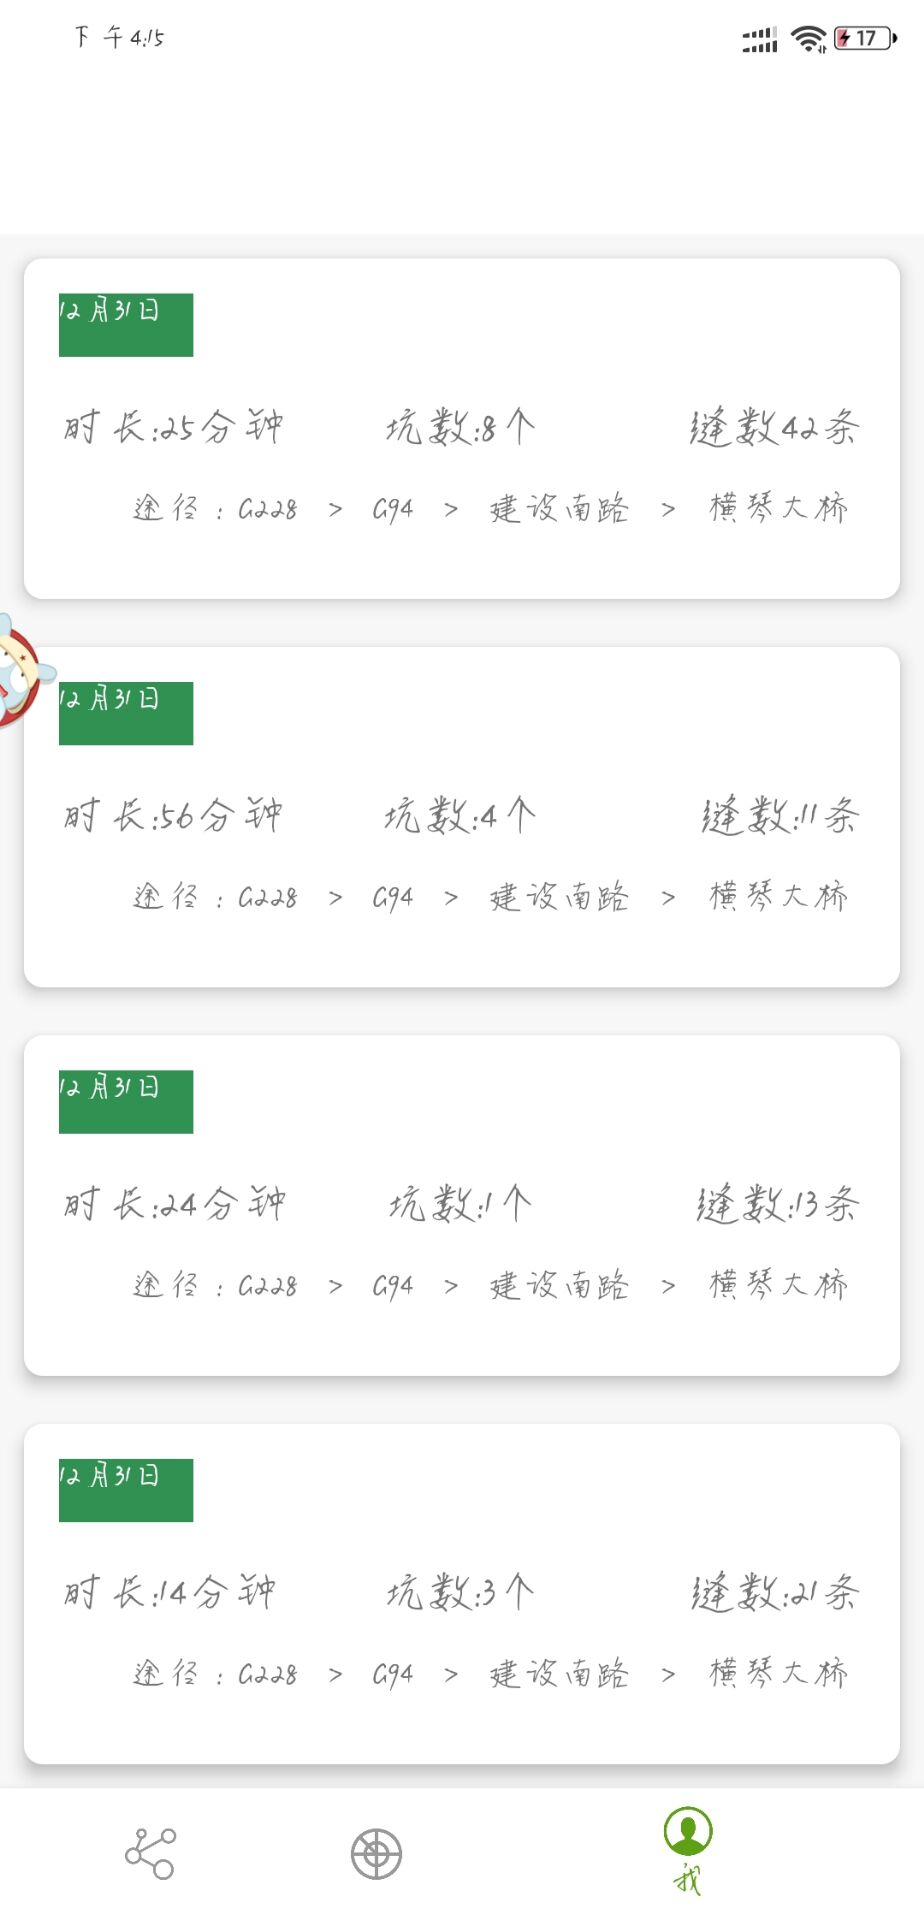
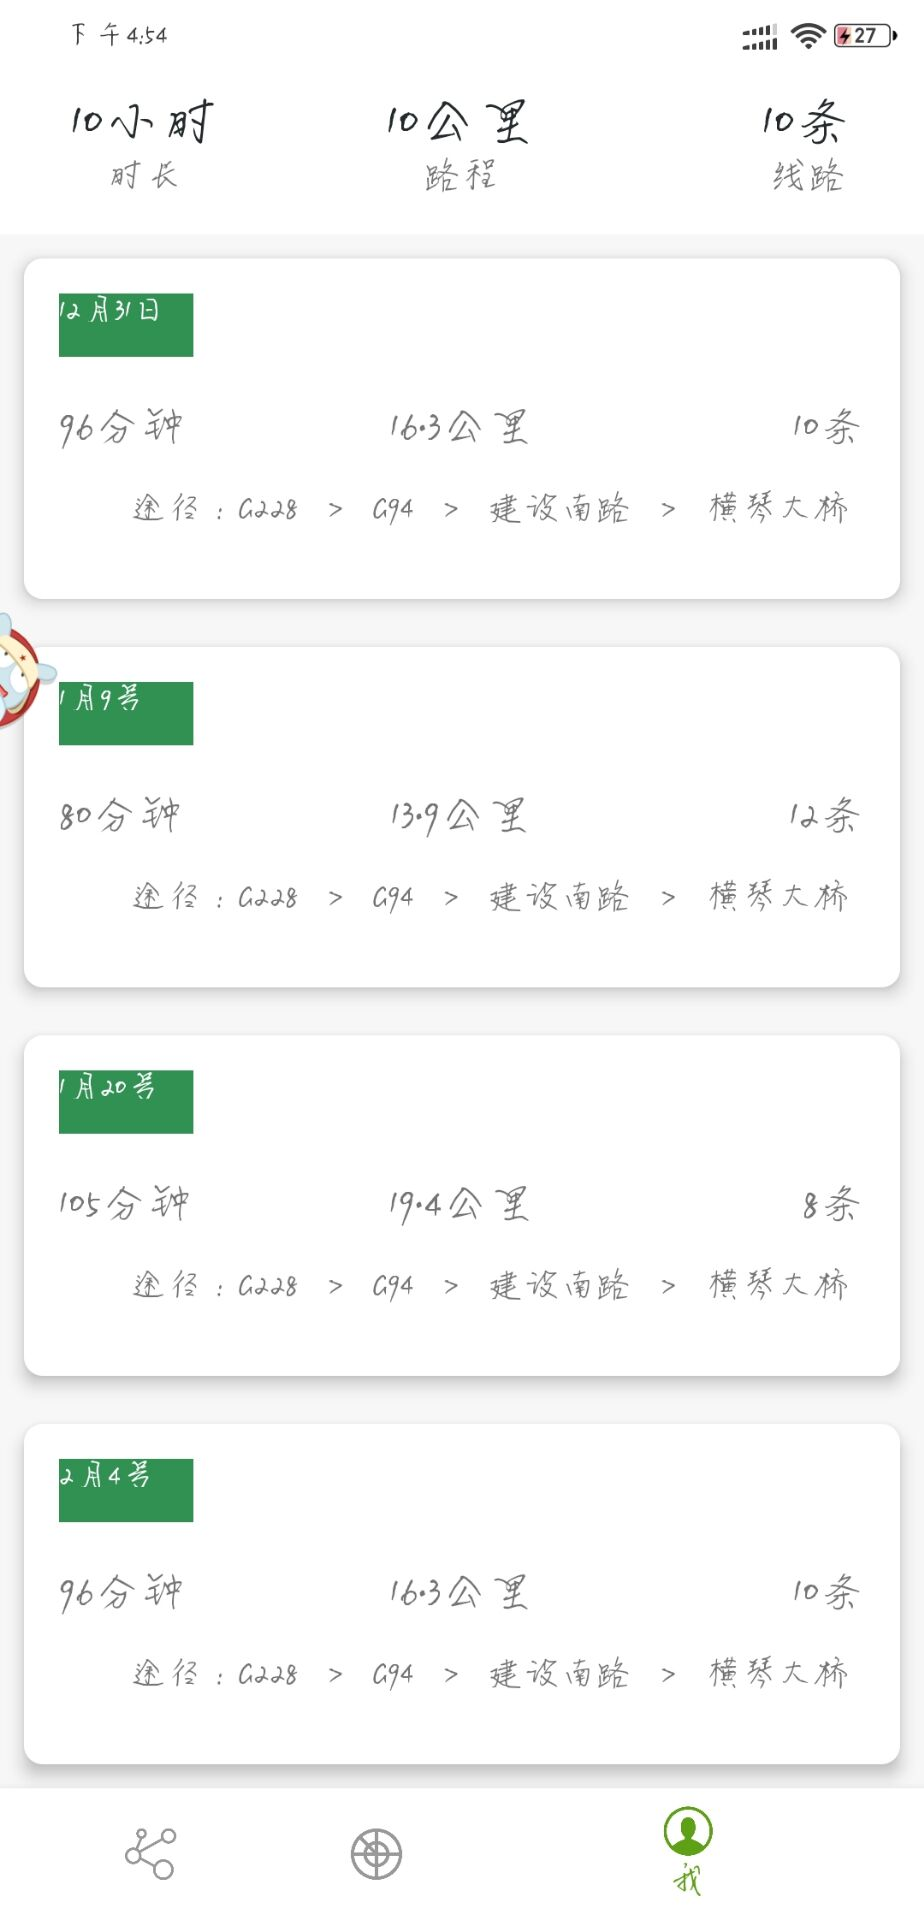
:rocket: 登录以后销毁登陆界面Activity

diff --git a/app/src/main/java/com/example/a65667/road/fragment/MineFragment.java b/app/src/main/java/com/example/a65667/road/fragment/MineFragment.java
@@ -52,26 +52,31 @@ public class MineFragment extends Fragment {
         List<String> lastTime = new ArrayList<>();
         List<String> holeCount = new ArrayList<>();
         List<String> crackCount = new ArrayList<>();
+        List<String> travelWay = new ArrayList<>();
 
         dataTime.add("12月31日");
         lastTime.add("96分钟");
         holeCount.add("16.3公里");
         crackCount.add("10条");
+        travelWay.add("途经：G228  >  G94  >  建设南路  >  横琴大桥");
 
         dataTime.add("1月9号");
         lastTime.add("80分钟");
         holeCount.add("13.9公里");
         crackCount.add("12条");
+        travelWay.add("途经：G228  >  G94  >  建设南路  >  横琴大桥");
 
         dataTime.add("1月20号");
         lastTime.add("105分钟");
         holeCount.add("19.4公里");
         crackCount.add("8条");
+        travelWay.add("途经：G228  >  G94  >  建设南路  >  横琴大桥");
 
         dataTime.add("2月4号");
         lastTime.add("96分钟");
         holeCount.add("16.3公里");
         crackCount.add("10条");
+        travelWay.add("途经：G228  >  G94  >  建设南路  >  横琴大桥");
 
         recyclerView = root.findViewById(R.id.rv_mine);
         mAdaper = new MultiTypeAdapter();
@@ -86,6 +91,7 @@ public class MineFragment extends Fragment {
             mineRecordItem.setLastTime(lastTime.get(i));
             mineRecordItem.setHoleCount(holeCount.get(i));
             mineRecordItem.setCrackCount(crackCount.get(i));
+            mineRecordItem.setTravel(travelWay.get(i));
             mItems.add(mineRecordItem);
         }
 

diff --git a/app/src/main/java/com/example/a65667/road/Item/MineRecordItem.java b/app/src/main/java/com/example/a65667/road/Item/MineRecordItem.java
@@ -2,11 +2,10 @@ package com.example.a65667.road.Item;
 
 public class MineRecordItem {
     private String dataTime;
-    private String startTime;
-    private String endTime;
     private String lastTime;
     private String holeCount;
     private String crackCount;
+    private String travel;
 
     public String getDataTime() {
         return dataTime;
@@ -14,22 +13,6 @@ public class MineRecordItem {
 
     public void setDataTime(String dataTime) {
         this.dataTime = dataTime;
-    }
-
-    public String getStartTime() {
-        return startTime;
-    }
-
-    public void setStartTime(String startTime) {
-        this.startTime = startTime;
-    }
-
-    public String getEndTime() {
-        return endTime;
-    }
-
-    public void setEndTime(String endTime) {
-        this.endTime = endTime;
     }
 
     public String getLastTime() {
@@ -54,5 +37,13 @@ public class MineRecordItem {
 
     public void setCrackCount(String crackCount) {
         this.crackCount = crackCount;
+    }
+
+    public String getTravel() {
+        return travel;
+    }
+
+    public void setTravel(String travel) {
+        this.travel = travel;
     }
 }

diff --git a/app/src/main/java/com/example/a65667/road/binder/MineRecordItemViewBinder.java b/app/src/main/java/com/example/a65667/road/binder/MineRecordItemViewBinder.java
@@ -15,7 +15,7 @@ import me.drakeet.multitype.ItemViewBinder;
 public class MineRecordItemViewBinder extends ItemViewBinder<MineRecordItem, MineRecordItemViewBinder.ViewHolder> {
     private MineRecordItem mineRecordItem;
     private View root;
-    private TextView tvData, tvLast, tvHole, tvCrack;
+    private TextView tvData, tvLast, tvHole, tvCrack, tvTravel;
 
     @NonNull
     @Override
@@ -35,10 +35,12 @@ public class MineRecordItemViewBinder extends ItemViewBinder<MineRecordItem, Min
         tvLast = root.findViewById(R.id.tv_last_time);
         tvHole = root.findViewById(R.id.tv_hole_count);
         tvCrack = root.findViewById(R.id.tv_crack_count);
+        tvTravel = root.findViewById(R.id.tv_travel);
         tvData.setText(mineRecordItem.getDataTime());
         tvLast.setText(mineRecordItem.getLastTime());
         tvHole.setText(mineRecordItem.getHoleCount());
         tvCrack.setText(mineRecordItem.getCrackCount());
+        tvTravel.setText(mineRecordItem.getTravel());
     }
 
     static class ViewHolder extends RecyclerView.ViewHolder {

diff --git a/app/src/main/java/com/example/a65667/road/activity/SignInActivity.java b/app/src/main/java/com/example/a65667/road/activity/SignInActivity.java
@@ -26,6 +26,7 @@ public class SignInActivity extends AppCompatActivity {
                 Toast.makeText(SignInActivity.this, "登陆成功", Toast.LENGTH_SHORT).show();
                 Intent main2Activity = new Intent(SignInActivity.this, Main2Activity.class);
                 startActivity(main2Activity);
+                finish();
             }
         });
 

diff --git a/app/src/main/java/com/example/a65667/road/activity/RegisterActivity.java b/app/src/main/java/com/example/a65667/road/activity/RegisterActivity.java
@@ -26,6 +26,7 @@ public class RegisterActivity extends AppCompatActivity {
                 Toast.makeText(RegisterActivity.this, "注册成功", Toast.LENGTH_SHORT).show();
             Intent signInActivity = new Intent(RegisterActivity.this, SignInActivity.class);
             startActivity(signInActivity);
+            finish();
         }
         });
     }
